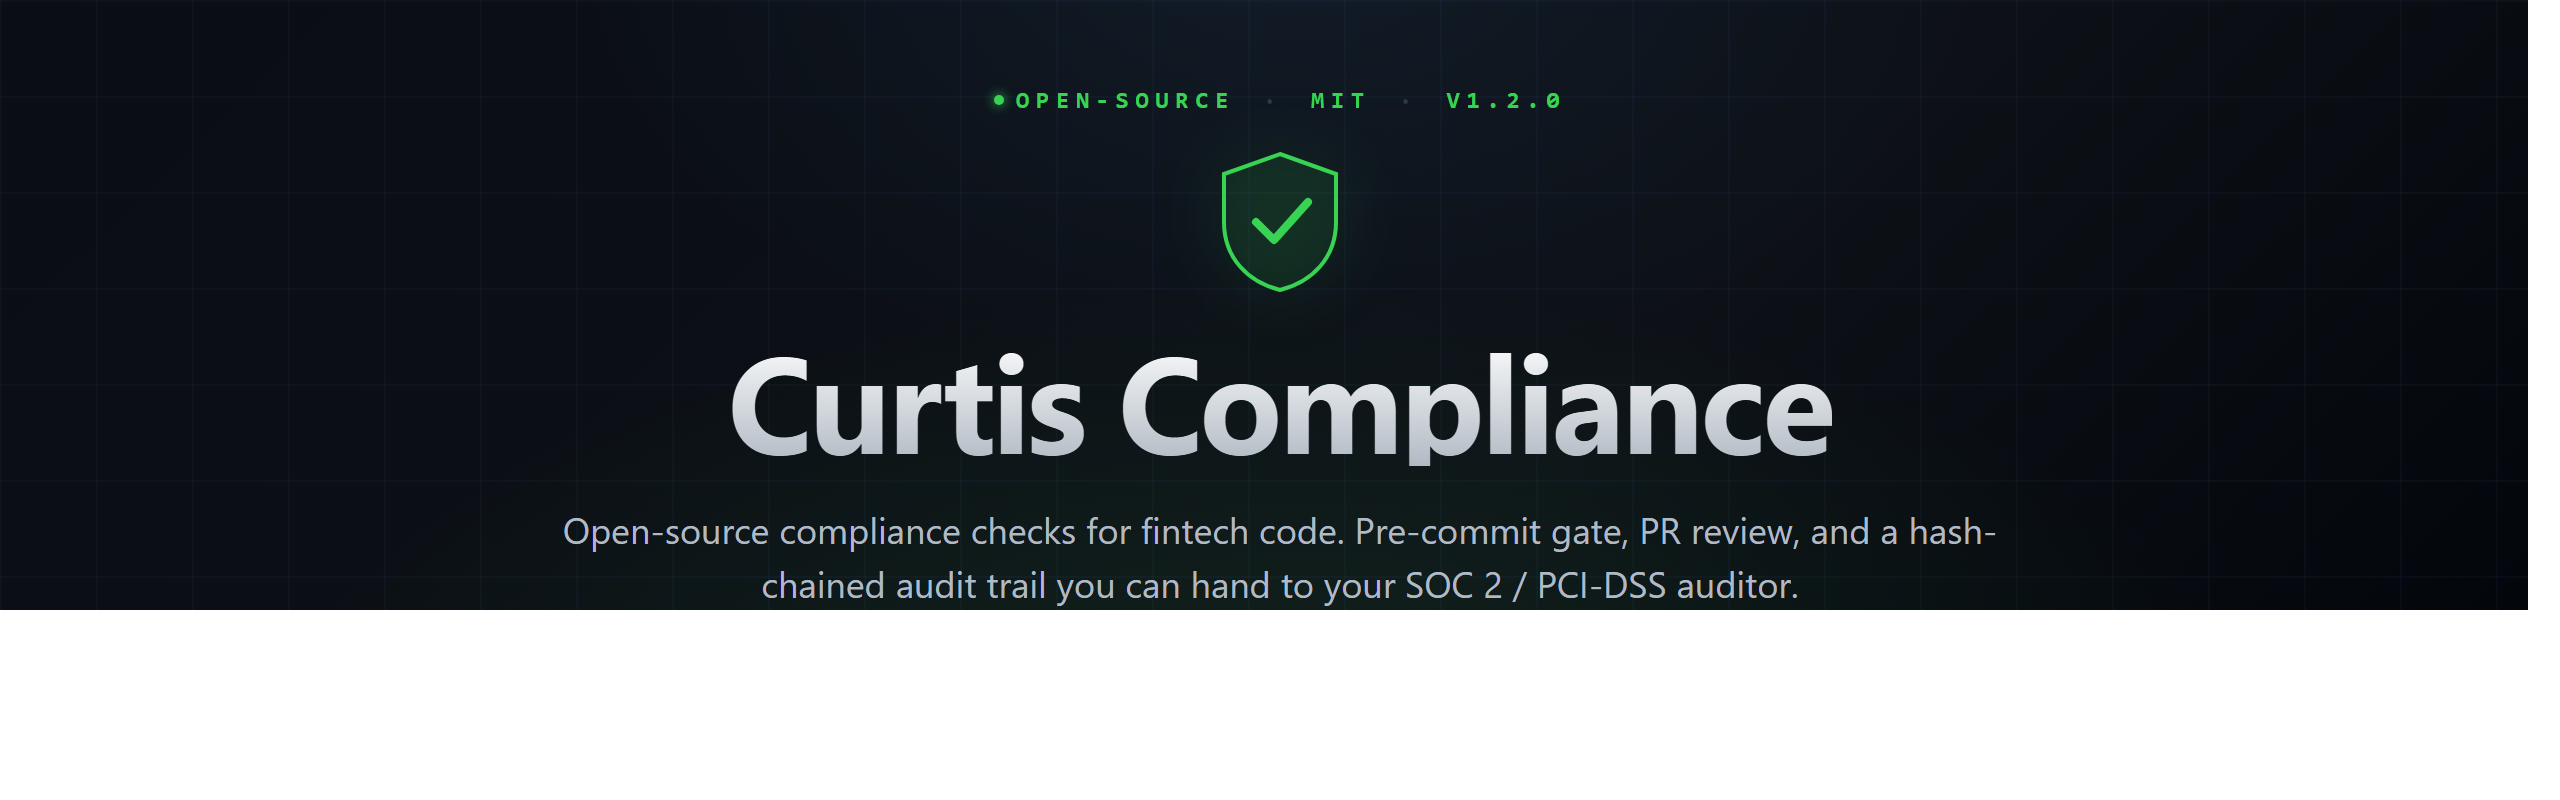
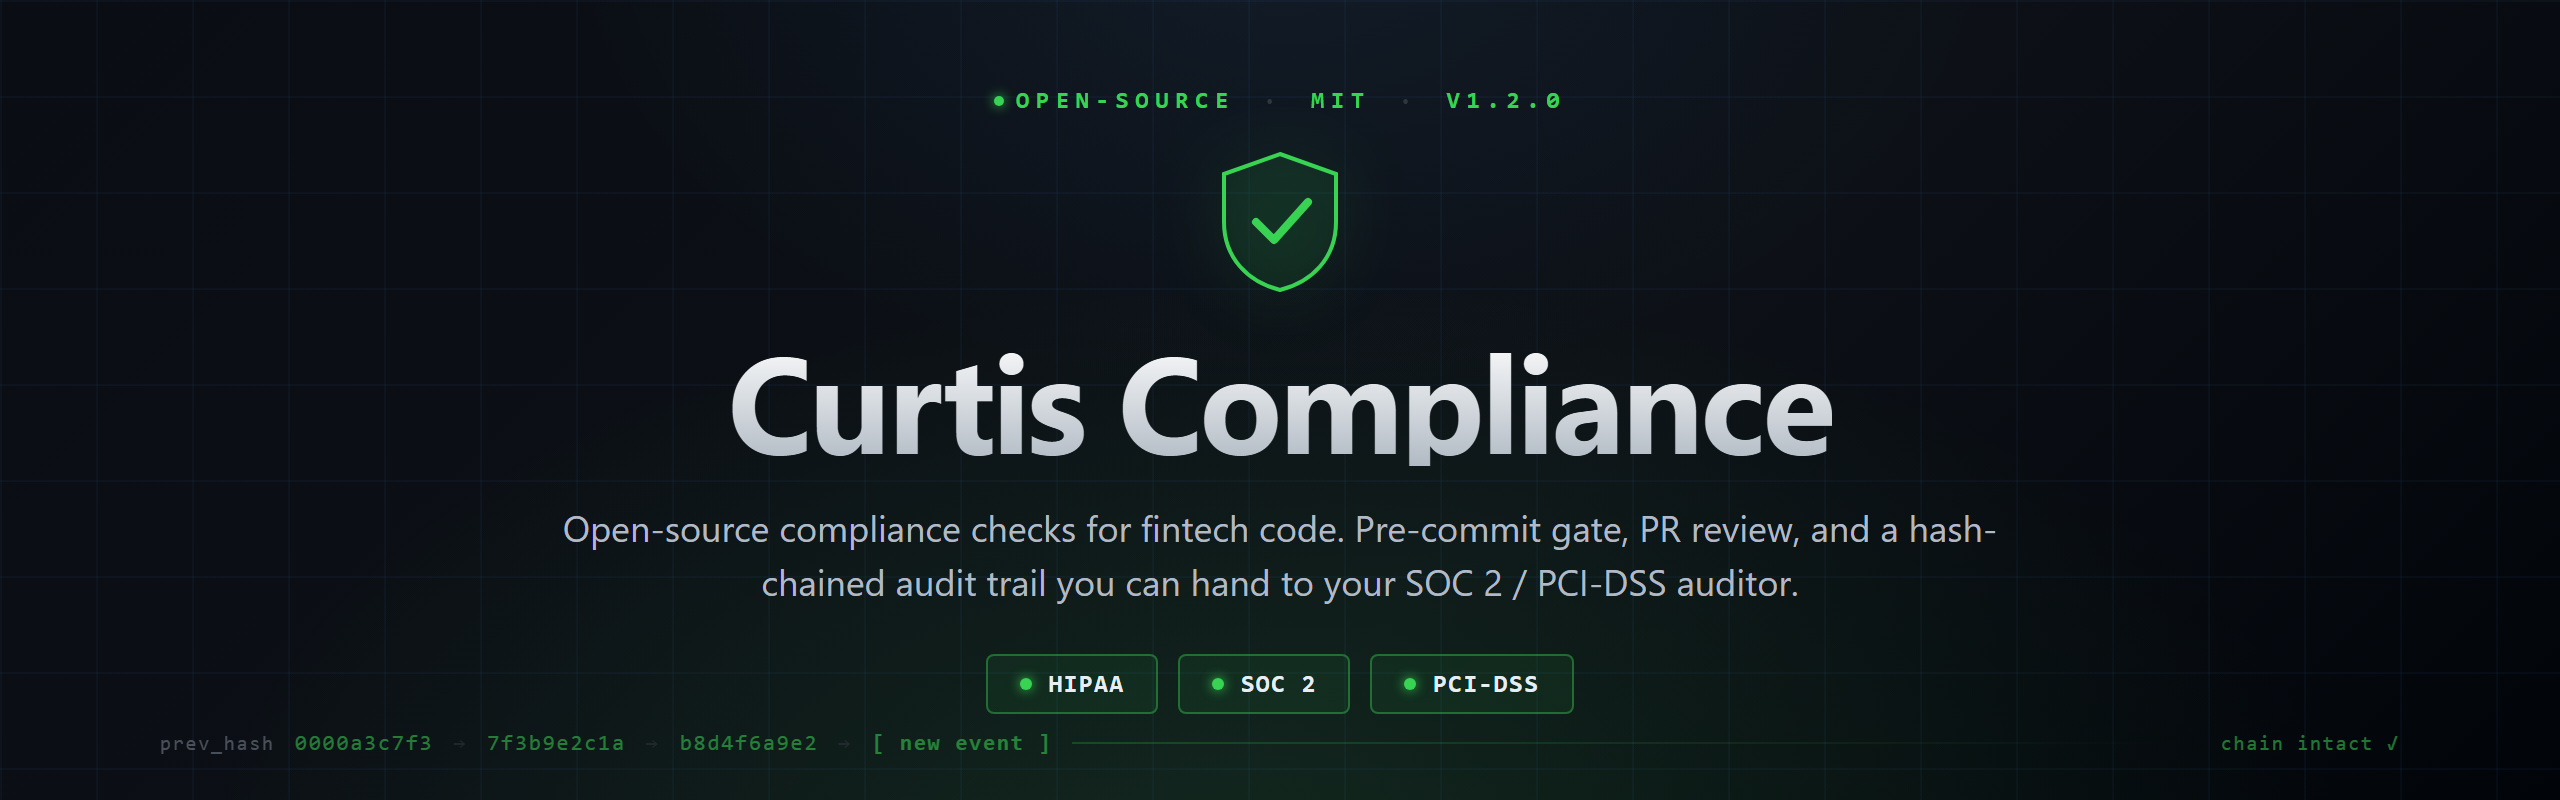
fix: re-render hero/terminal/social-preview via Playwright
Chrome --headless --screenshot was clipping the body to ~310 of 400 CSS
px (chips cut off) and leaving scrollbar gutter as white canvas at the
right + bottom edges. Switched to Playwright which respects viewport +
deviceScaleFactor exactly. Also added matching html background color so
any gutter shows dark instead of white.

Changed region(s): [[0.0, 0.0, 1.0, 1.0], [0.2188, 0.6562, 0.7812, 0.6875]]

diff --git a/assets/terminal.html b/assets/terminal.html
@@ -4,6 +4,7 @@
 <meta charset="utf-8">
 <style>
   * { box-sizing: border-box; margin: 0; padding: 0; }
+  html { background: #010409; }
   html, body { width: 900px; height: 540px; overflow: hidden; }
   body {
     background: #010409;

diff --git a/assets/hero.html b/assets/hero.html
@@ -4,6 +4,7 @@
 <meta charset="utf-8">
 <style>
   * { box-sizing: border-box; margin: 0; padding: 0; }
+  html { background: #0a0e14; }
   html, body { width: 1280px; height: 400px; overflow: hidden; }
   body {
     background:

diff --git a/assets/social-preview.html b/assets/social-preview.html
@@ -4,6 +4,7 @@
 <meta charset="utf-8">
 <style>
   * { box-sizing: border-box; margin: 0; padding: 0; }
+  html { background: #0a0e14; }
   html, body { width: 1280px; height: 640px; overflow: hidden; }
   body {
     background:
